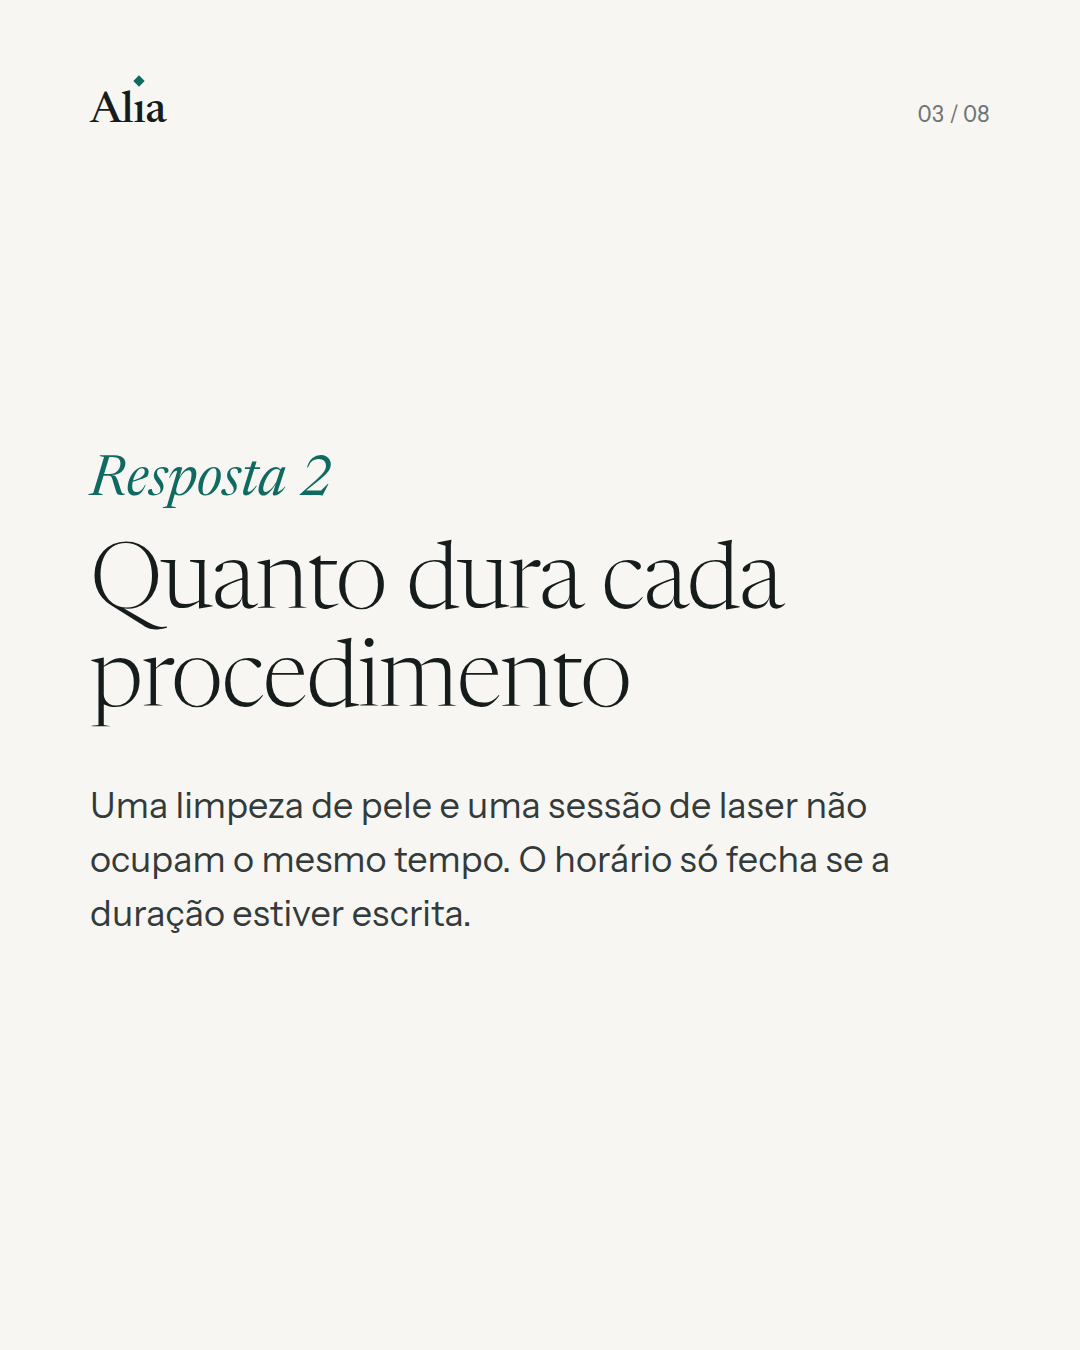
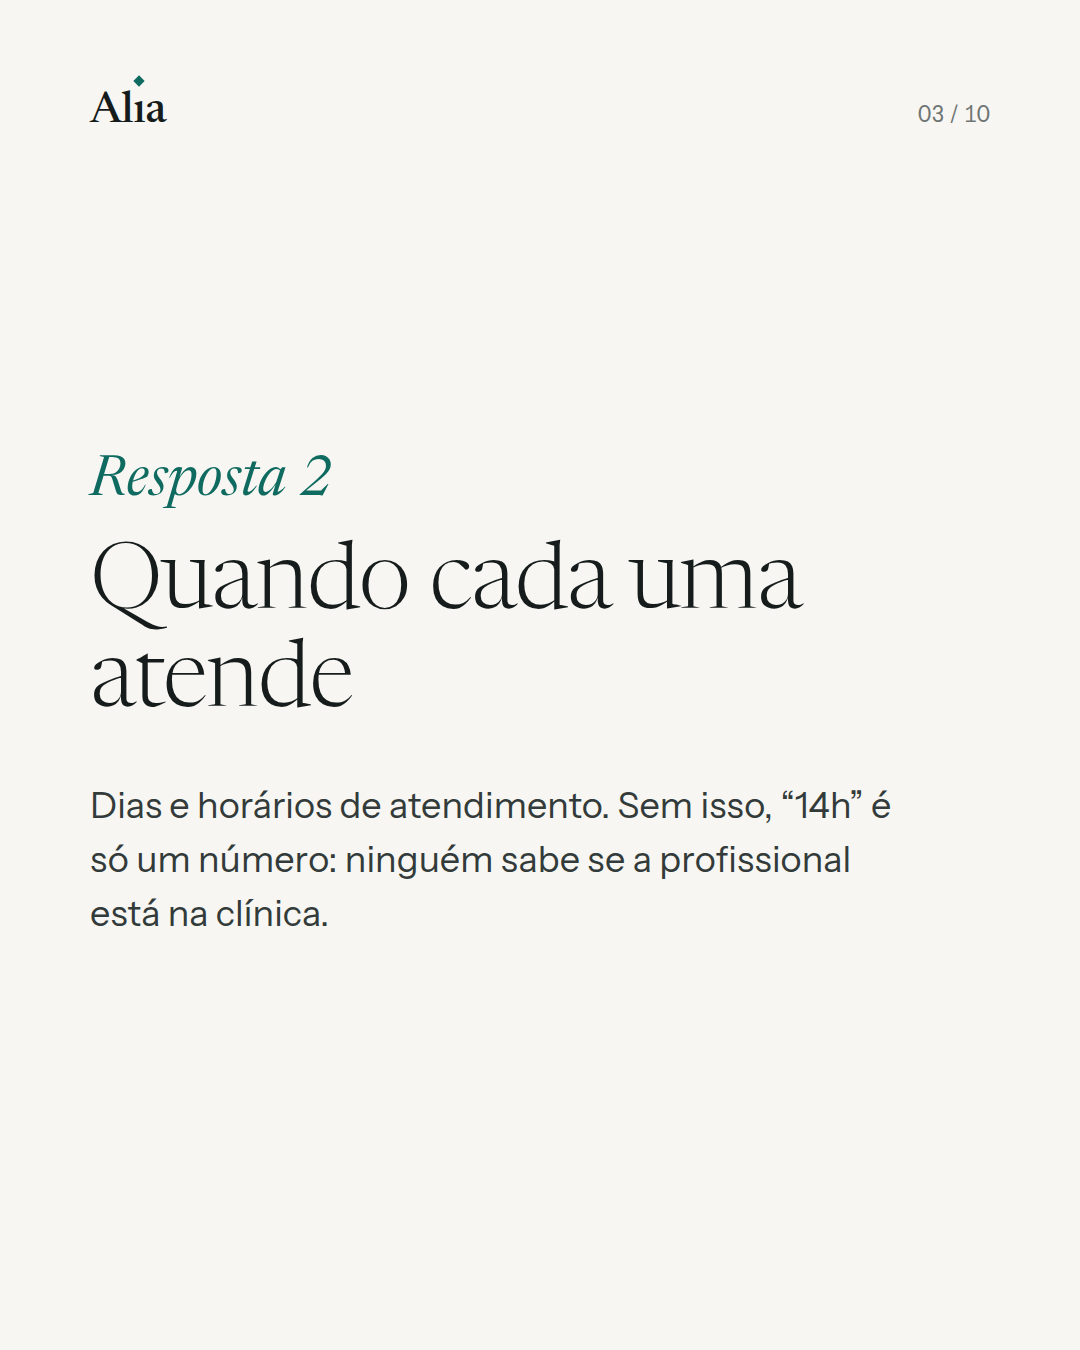
Fila: carrossel 10/11 com os fatos liberados em 02/11 (várias profissionais, alternativa, remarcar/cancelar)

Changed region(s): [[0.0917, 0.4044, 0.7333, 0.5289], [0.0917, 0.5911, 0.825, 0.6844], [0.8861, 0.0622, 0.9167, 0.0933]]

diff --git a/fila/2026-11-10-tem-horario-as-14h/legenda.md b/fila/2026-11-10-tem-horario-as-14h/legenda.md
@@ -1,12 +1,14 @@
-"Tem horário às 14h?" parece uma pergunta simples. Para responder, a agenda precisa ter 4 coisas escritas:
+"Tem horário às 14h?" parece uma pergunta simples. Para responder, a agenda precisa ter 6 coisas escritas:
 
-1. Dias e horários de atendimento
-2. Duração de cada procedimento
-3. Intervalo entre um atendimento e outro
-4. Antecedência mínima para marcar
+1. Profissionais e os procedimentos de cada uma
+2. Dias e horários de cada uma
+3. Duração de cada procedimento
+4. Intervalo entre um atendimento e outro
+5. Antecedência mínima para marcar
+6. Regra de remarcar e cancelar
 
-O agente só promete o que está escrito na base da clínica. Com a agenda escrita, ele marca o horário na própria conversa, a qualquer hora do dia ou da noite.
+O agente só promete o que está escrito na base da clínica. Com a agenda escrita, ele marca o horário na própria conversa, a qualquer hora do dia ou da noite, e oferece outro horário quando o dia pedido está cheio.
 
-Salve este post e confira se a sua agenda responde as 4 antes de falar com qualquer fornecedor de IA. Quer ver como ficaria com os procedimentos da sua clínica? Link na bio.
+Salve este post e confira se a sua agenda responde as 6 antes de falar com qualquer fornecedor de IA. Quer ver como ficaria com os procedimentos da sua clínica? Link na bio.
 
 #clinicaestetica #gestaodeclinicas #agendamento #agentesdeia
